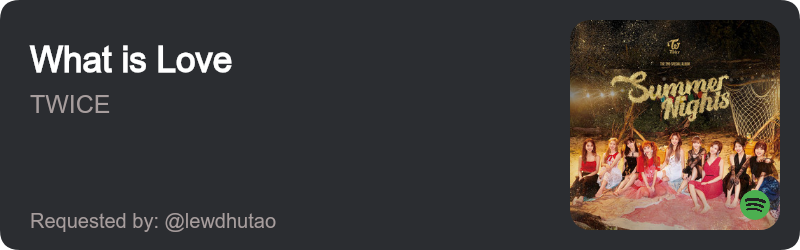
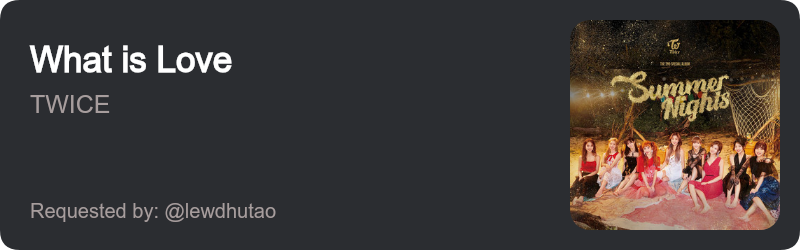
update readme card

Changed region(s): [[0.0312, 0.812, 0.3438, 0.924], [0.9062, 0.756, 0.9688, 0.896]]

diff --git a/src/test/dynamicCard.test.js b/src/test/dynamicCard.test.js
@@ -7,7 +7,6 @@ async function testdynamicCard() {
     "https://i.scdn.co/image/ab67616d00001e0240d7efd2594a2b6bda60ea18";
   const songTitle = "What is Love";
   const songArtist = "TWICE";
-  const streamProvider = "spotify";
   const trackRequester = "@lewdhutao";
   const fontPath =  path.join(__dirname, "..", "fonts", "ArialUnicodeMS.ttf")
 
@@ -16,7 +15,6 @@ async function testdynamicCard() {
       thumbnailURL,
       songTitle,
       songArtist,
-      streamProvider,
       trackRequester,
       fontPath,
     });
